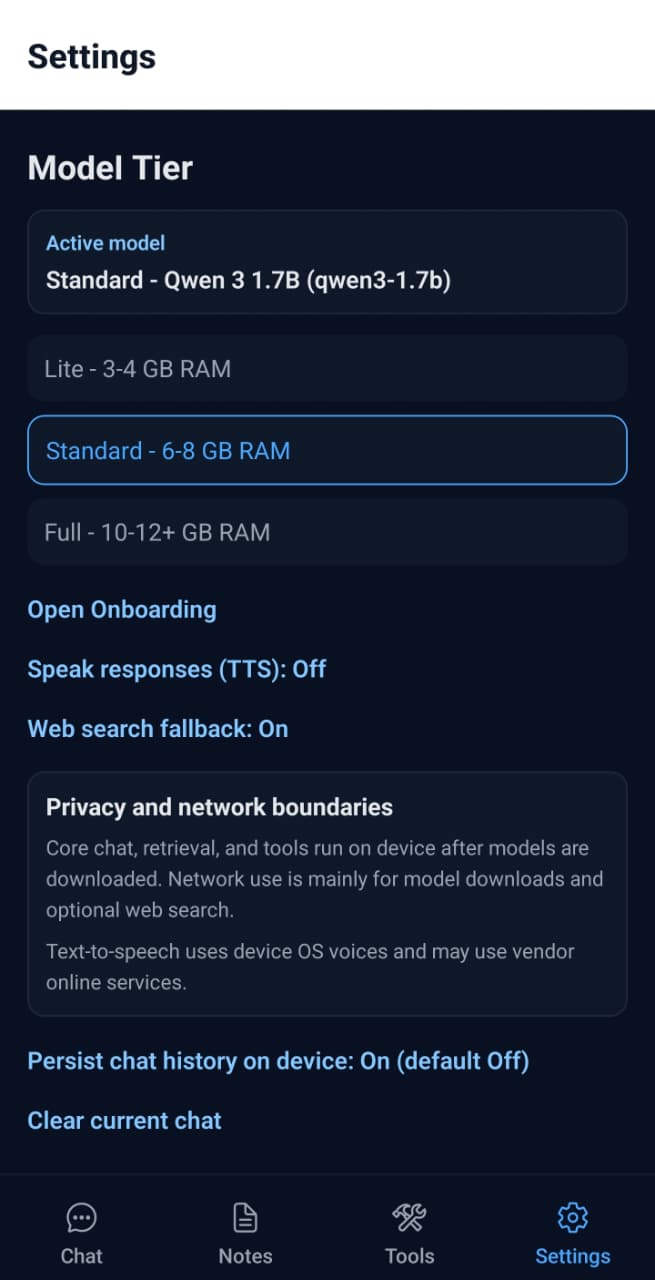
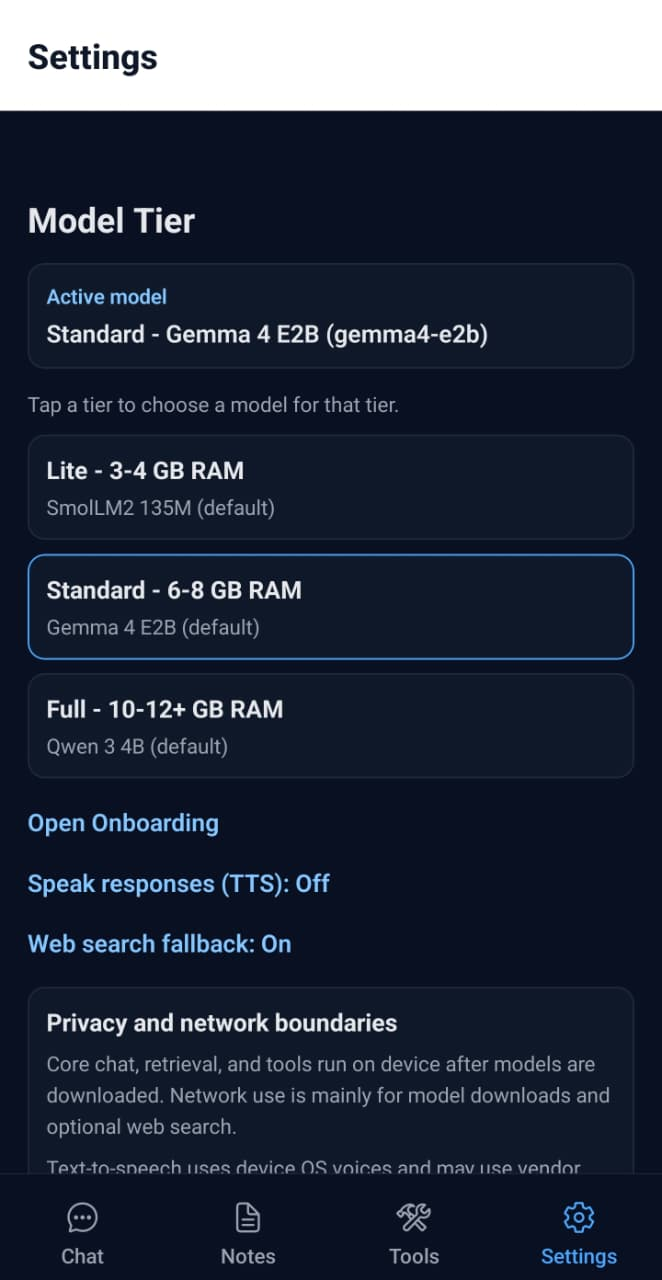
Release 0.3.0: SDK 56 upgrade and per-tier model selection
Bump app version to 0.3.0 and document the 0.3.0 release: Expo SDK 56 upgrade, per-tier on-device model selection with new Standard-tier variants, full-utterance Whisper STT rework, and website Terms page.

diff --git a/website/index.html b/website/index.html
@@ -259,11 +259,21 @@
                 <img
                   class="shot"
                   src="screenshots/2.jpeg"
-                  alt="OfflineMate settings screen with model tier and chat-history retention controls."
+                  alt="OfflineMate settings screen with Lite, Standard, and Full model tier selection."
                   loading="lazy"
                   decoding="async"
                 />
-                <figcaption>Settings and history retention</figcaption>
+                <figcaption>Settings and model tier</figcaption>
+              </figure>
+              <figure class="shot-card">
+                <img
+                  class="shot"
+                  src="screenshots/5-standard-model-options.jpeg"
+                  alt="OfflineMate standard model options dialog with downloadable variants such as Gemma, Qwen, and SmolLM2."
+                  loading="lazy"
+                  decoding="async"
+                />
+                <figcaption>Standard model options</figcaption>
               </figure>
               <figure class="shot-card">
                 <img

diff --git a/CHANGELOG.md b/CHANGELOG.md
@@ -2,6 +2,26 @@
 
 All notable changes to this project are documented in this file.
 
+## [0.3.0] - 2026-06-21
+
+### Added
+- Per-tier model selection: choose a specific on-device model per tier (Lite/Standard/Full) in Settings, with the choice persisted per tier (`app/(tabs)/settings.tsx`, `src/stores/settings-store.ts`, `src/ai/model-registry.ts`).
+- Standard-tier model variants for side-by-side testing: Gemma 4 E2B (new Standard primary) and Qwen 3.5 2B, alongside existing Qwen 1.7B, SmolLM2 1.7B, and Llama 1B alternates (`src/ai/model-registry.ts`).
+- Website Terms page (`website/terms.html`) plus sitemap and privacy updates.
+
+### Changed
+- Upgraded to Expo SDK 56 and bumped React Native and native AI dependencies (including `react-native-executorch`); resolved related app and tooling changes (`package.json`, `app.json`, `eas.json`).
+- Reworked voice input: speech-to-text now captures the full utterance and runs a single `whisper.rn` transcription at stop (instead of realtime VAD slices), using the Android `VOICE_RECOGNITION` audio source for more accurate short voice commands (`src/voice/stt-engine.ts`).
+- Model registry now resolves and labels the active selected model per tier (not just the tier primary), with safe fallback to the primary (`src/ai/model-registry.ts`, `src/hooks/useLLMChat.ts`, `src/ai/model-manager.ts`).
+- Settings persistence migrated to support per-tier model ids (`tierModelIds`), migrating any legacy single Standard selection forward.
+- App version updated to `0.3.0` in `app.json`.
+
+### Tests
+- Added/updated unit tests for model registry and settings store covering per-tier model selection, normalization, and migration (`tests/unit/model-registry.test.ts`, `tests/unit/settings-store.test.ts`).
+
+### Docs
+- Added per-tier model selection plan and updated model comparison/selection, models, speech, stack, and pipeline docs (`docs/`).
+
 ## [0.2.0] - 2026-05-16
 
 ### Added

diff --git a/docs/deployment/android-release-playstore.md b/docs/deployment/android-release-playstore.md
@@ -198,7 +198,7 @@ Play rejects any AAB whose **`versionCode`** is **≤** the latest on that track
 
 Your manual step each release:
 
-1. Bump **`expo.version`** (e.g. `0.1.0` → `0.2.0`) in [`app.json`](../../app.json) when user-visible changes ship.
+1. Bump **`expo.version`** (e.g. `0.2.0` → `0.3.0`) in [`app.json`](../../app.json) when user-visible changes ship.
 2. Commit, push to `main`.
 3. Dispatch the workflow with `profile = production` (and `submit = true` if Play should receive the AAB automatically).
 
